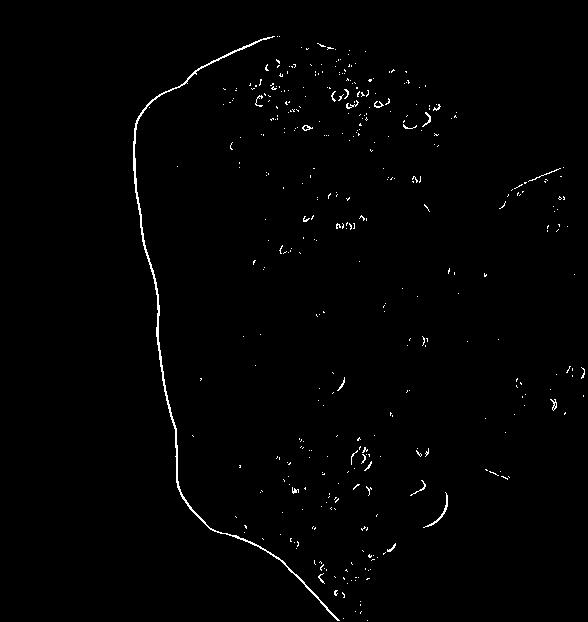
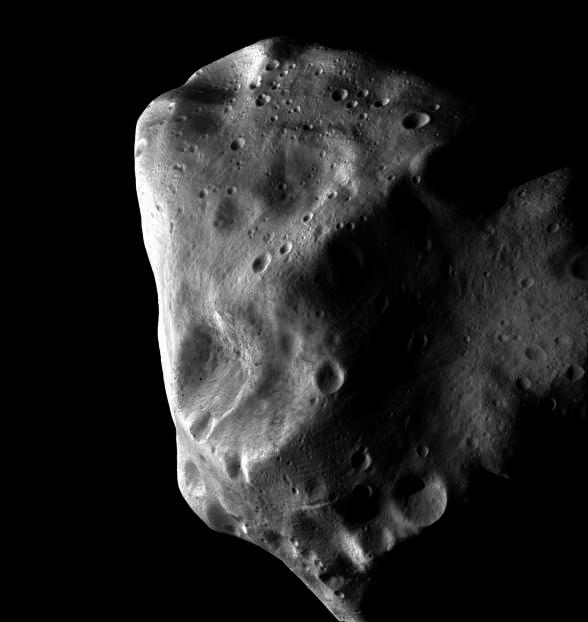
basic conversion to grayscale

diff --git a/src/main/java/impro/Tester.java b/src/main/java/impro/Tester.java
@@ -30,13 +30,24 @@ public class Tester {
         }
     }
 
+    private static BufferedImage convertToGrayScale(BufferedImage source) {
+        BufferedImage result = new BufferedImage(source.getWidth(), source.getHeight(), BufferedImage.TYPE_BYTE_GRAY);
+        for (int x = 0; x < source.getWidth(); x++) {
+            for (int y = 0; y < source.getHeight(); y++) {
+                int rgba = source.getRGB(x, y);
+                result.setRGB(x, y, getGrayValueAverage(rgba));
+            }
+        }
+        return result;
+    }
+
     private static BufferedImage detectEdges(BufferedImage image) {
         BufferedImage result = new BufferedImage(image.getWidth(), image.getHeight(), image.getType());
         for (int x = 1; x < image.getWidth() - 1; x++) {
             for (int y = 1; y < image.getHeight() - 1; y++) {
                 double gradient = Math.abs(getGrayValue(image.getRGB(x + 1, y)) - getGrayValue(image.getRGB(x - 1, y)))
                         + Math.abs(getGrayValue(image.getRGB(x, y + 1)) - getGrayValue(image.getRGB(x, y - 1)));
-                if (gradient < 100) {
+                if (gradient < 80) {
                     result.setRGB(x, y, 0);
                 } else {
                     result.setRGB(x, y, new Color(255, 255, 255).getRGB());
@@ -49,6 +60,11 @@ public class Tester {
     private static double getGrayValue(int rgba) {
         return new Color(rgba, true).getRed() * 0.299 + new Color(rgba, true).getGreen() * 0.587
                 + new Color(rgba, true).getBlue() * 0.114;
+    }
+
+    private static int getGrayValueAverage(int rgba) {
+        int gray = (new Color(rgba, true).getRed() + new Color(rgba, true).getGreen() + new Color(rgba, true).getBlue()) / 3;
+        return new Color(gray, gray, gray).getRGB();
     }
 
     private static void invert(BufferedImage image) {
@@ -64,7 +80,7 @@ public class Tester {
 
     private static void process(BufferedImage image) {
         // Write result in a file
-        BufferedImage processed = detectEdges(image);
+        BufferedImage processed = convertToGrayScale(image);
         try {
             File outputfile = new File("processed.jpg");
             ImageIO.write(processed, "jpg", outputfile);
